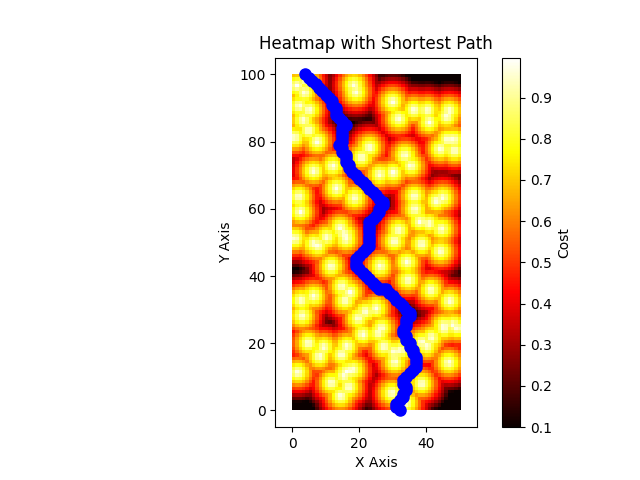
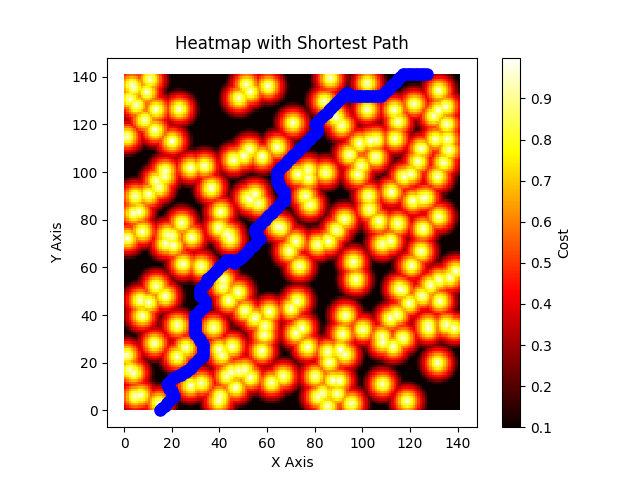
benchmarking method added :)

diff --git a/discrete/main.py b/discrete/main.py
@@ -170,11 +170,19 @@ def main():
     time_start = time.time()
     
     ##### Step 1: Let's build the problem field
-    x_length = 50        # x coordinate of the cows field [m]
-    y_length = 100        # y coordinate of the cows field [m]
-    n_obst = 100          # number of obsticles (cows)
-    
-    np.random.seed(42)   # seed for the random number generator
+    if len(sys.argv) > 1:
+        n_obst = int(sys.argv[1])
+        seed = int(sys.argv[2])
+        x_length = int((n_obst*100)**0.5)
+        y_length = x_length
+         
+        np.random.seed(seed)
+    else:
+        x_length = 50        # x coordinate of the cows field [m]
+        y_length = 100        # y coordinate of the cows field [m]
+        n_obst = 100          # number of obsticles (cows)
+        
+        np.random.seed(43)   # seed for the random number generator
         
     grid_spacing = 1        # spacing of the grid points [m]
     
@@ -185,6 +193,10 @@ def main():
 
     ##### Step 2: Computing the 2d heatmap of the cows in the field
     grid_points, n_total_points, n_grid_points_x = compute_heatmap(obst_coord, x_length, y_length, grid_spacing)
+    
+    density = n_obst/(grid_points.shape[0]*grid_points.shape[1])
+    # print("n_obst, seed, x_length, y_length, n_grid_points, density")
+    # print(n_obst, seed, x_length, y_length, grid_points.shape, density)
     
     ##### Step 3: Converting the heatmap into a weighted graph
     graph = compute_graph(grid_points, n_total_points, n_grid_points_x)
@@ -209,33 +221,36 @@ def main():
     path.append(start_coord)
     path = path[::-1]  # Reverse the path to get it from source to destination
     
-    print("total runtime: ", time.time() - time_start, "[s]")
+    print(time.time() - time_start)
+    # print("total runtime: ", time.time() - time_start, "[s]")
     
     ##### Step 5: Plot
     
-    # Plot the shortest path
-    x_coords = grid_points[path, 0]
-    y_coords = grid_points[path, 1]
-    plt.plot(x_coords, y_coords, marker='o', linestyle='-', color='blue', markersize=8)
-    
-    # Plot the start and end points
-    #plt.plot(grid_points[start_coord, 0], grid_points[start_coord, 1], marker='x', linestyle='-', color='green', markersize=8)
-    #plt.plot(grid_points[end_coord, 0], grid_points[end_coord, 1], marker='x', linestyle='-', color='red', markersize=8)
+    plot = False
+    if plot:
+        # Plot the shortest path
+        x_coords = grid_points[path, 0]
+        y_coords = grid_points[path, 1]
+        plt.plot(x_coords, y_coords, marker='o', linestyle='-', color='blue', markersize=8)
+        
+        # Plot the start and end points
+        #plt.plot(grid_points[start_coord, 0], grid_points[start_coord, 1], marker='x', linestyle='-', color='green', markersize=8)
+        #plt.plot(grid_points[end_coord, 0], grid_points[end_coord, 1], marker='x', linestyle='-', color='red', markersize=8)
 
-    # Plot the heatmap
-    weights = grid_points[:, 2].reshape((y_length+1, x_length+1))
-    plt.imshow(weights, origin='lower', extent=(0, x_length, 0, y_length), cmap='hot', interpolation='nearest')
-    plt.colorbar(label='Cost')
-    
-    margin = max(x_length, y_length)/20.0
-    plt.xlim(-margin, x_length + margin)
-    plt.ylim(-margin, y_length + margin)
-    
-    plt.title('Heatmap with Shortest Path')
-    plt.xlabel('X Axis')
-    plt.ylabel('Y Axis')
-    plt.savefig('heatmap.png')
-    plt.show()
+        # Plot the heatmap
+        weights = grid_points[:, 2].reshape((y_length+1, x_length+1))
+        plt.imshow(weights, origin='lower', extent=(0, x_length, 0, y_length), cmap='hot', interpolation='nearest')
+        plt.colorbar(label='Cost')
+        
+        margin = max(x_length, y_length)/20.0
+        plt.xlim(-margin, x_length + margin)
+        plt.ylim(-margin, y_length + margin)
+        
+        plt.title('Heatmap with Shortest Path')
+        plt.xlabel('X Axis')
+        plt.ylabel('Y Axis')
+        plt.savefig('heatmap.png')
+        plt.show()
     
     
      

diff --git a/voronoi/main.py b/voronoi/main.py
@@ -1,3 +1,4 @@
+import sys
 import time
 import numpy as np
 import matplotlib.pyplot as plt
@@ -11,8 +12,6 @@ This code computes the problem of Rumo having to pass a field with n cows.
 We have to get from point A to point B with having as little contact to the cows as he start barking otherwise.
 I.e. we are searching for the path of least resistance.
 """
-
-np.random.seed(42)
 
 
 def cost_function(a: np.array, b: np.array, c1: np.array, c2: np.array):
@@ -143,10 +142,19 @@ def main():
     time_start = time.time()
     
     ##### Step 1: Defining the problem field
-    
-    x_length = 50        # x coordinate of the cows field [m]
-    y_length = 100        # y coordinate of the cows field [m]
-    n_obst = 3000          # number of obsticles (cows)
+    if len(sys.argv) > 1:
+        n_obst = int(sys.argv[1])
+        seed = int(sys.argv[2])
+        x_length = int((n_obst*100)**0.5)
+        y_length = x_length
+         
+        np.random.seed(seed)
+    else:
+        x_length = 50        # x coordinate of the cows field [m]
+        y_length = 100        # y coordinate of the cows field [m]
+        n_obst = 100          # number of obsticles (cows)
+        
+        np.random.seed(43)   # seed for the random number generator
     
     obst_coord = np.random.rand(n_obst, 2) # 2d coordinates of the cows
     obst_coord[:,0] *= x_length
@@ -210,37 +218,40 @@ def main():
     
     # total runtime complexity
     # O[n*log(n) + n + n*k + n*log(n)]
-    print("total runtime: ", time.time() - time_start, "[s]")
+    print(time.time() - time_start)
+    # print("total runtime: ", time.time() - time_start, "[s]")
     
     ##### Step 5: Plot
     
-    # plot voronoi
-    #fig = voronoi_plot_2d(vor)
-    
-    # Plot the shortest path    
-    x_coords = vor.vertices[all_idx[path], 0]
-    y_coords = vor.vertices[all_idx[path], 1]
-    plt.plot(x_coords, y_coords, marker='o', linestyle='-', color='blue', markersize=8)
-    
-    #colors = ['green' if (0.0 < t < 1.0) else 'red' for t in edges_w_weights[:,3]]
-    #plt.scatter(edges_w_weights[:,4], edges_w_weights[:,5], c=colors, s=50, edgecolors='black')
-    
-    plt.scatter(og_obst_coord[:,0], og_obst_coord[:,1], c='pink', s=50)
+    plot = False
+    if plot:
+        # plot voronoi
+        #fig = voronoi_plot_2d(vor)
+        
+        # Plot the shortest path    
+        x_coords = vor.vertices[all_idx[path], 0]
+        y_coords = vor.vertices[all_idx[path], 1]
+        plt.plot(x_coords, y_coords, marker='o', linestyle='-', color='blue', markersize=8)
+        
+        #colors = ['green' if (0.0 < t < 1.0) else 'red' for t in edges_w_weights[:,3]]
+        #plt.scatter(edges_w_weights[:,4], edges_w_weights[:,5], c=colors, s=50, edgecolors='black')
+        
+        plt.scatter(og_obst_coord[:,0], og_obst_coord[:,1], c='pink', s=50)
 
-    # Draw the square bounding box
-    plt.plot([0, x_length, x_length, 0, 0],
-            [0, 0, y_length, y_length, 0],
-            'k--', lw=2)
-    
-    margin = max(x_length, y_length)/20.0
-    plt.xlim(-margin, x_length + margin)
-    plt.ylim(-margin, y_length + margin)
+        # Draw the square bounding box
+        plt.plot([0, x_length, x_length, 0, 0],
+                [0, 0, y_length, y_length, 0],
+                'k--', lw=2)
+        
+        margin = max(x_length, y_length)/20.0
+        plt.xlim(-margin, x_length + margin)
+        plt.ylim(-margin, y_length + margin)
 
-    plt.title('Shortest Path in a Voronoi Diagram of Cows')
-    plt.xlabel('X Axis')
-    plt.ylabel('Y Axis')
-    plt.savefig('heatmap2.png')
-    plt.show()
+        plt.title('Shortest Path in a Voronoi Diagram of Cows')
+        plt.xlabel('X Axis')
+        plt.ylabel('Y Axis')
+        plt.savefig('heatmap2.png')
+        plt.show()
     
 
 if __name__ == "__main__":

diff --git a/voronoi_union/main.py b/voronoi_union/main.py
@@ -1,3 +1,4 @@
+import sys
 import time
 import numpy as np
 from collections import defaultdict, deque
@@ -11,8 +12,6 @@ This code computes the problem of Rumo having to pass a field with n cows.
 We have to get from point A to point B with having as little contact to the cows as he start barking otherwise.
 I.e. we are searching for the path of least resistance.
 """
-
-np.random.seed(42)
 
 # Turn on interactive mode
 # plt.ion()
@@ -222,7 +221,6 @@ def find_path(graph: defaultdict, n_nodes: int, least_visited: bool = False):
         graph (defaultdict): [description]
         n_nodes (int): [description]
     """
-    print(n_nodes)
     if n_nodes > 6000:
         # Non-recursive DFS from ChatGPT
         visited = set()
@@ -268,10 +266,19 @@ def main():
     time_start = time.time()
     
     ##### Step 1: Defining the problem field
-    
-    x_length = 50        # x coordinate of the cows field [m]
-    y_length = 100        # y coordinate of the cows field [m]
-    n_obst = 3000          # number of obsticles (cows)
+    if len(sys.argv) > 1:
+        n_obst = int(sys.argv[1])
+        seed = int(sys.argv[2])
+        x_length = int((n_obst*100)**0.5)
+        y_length = x_length
+         
+        np.random.seed(seed)
+    else:
+        x_length = 50        # x coordinate of the cows field [m]
+        y_length = 100        # y coordinate of the cows field [m]
+        n_obst = 100          # number of obsticles (cows)
+        
+        np.random.seed(43)   # seed for the random number generator
     
     obst_coord = np.random.rand(n_obst, 2) # 2d coordinates of the cows
     obst_coord[:,0] *= x_length
@@ -341,24 +348,27 @@ def main():
     # total runtime complexity
     # 
     
-    print("total runtime: ", time.time() - time_start, "[s]")
+    print(time.time() - time_start)
+    # print("total runtime: ", time.time() - time_start, "[s]")
     
     ##### Step 6: Plot
     
-    # plot voronoi
-    #fig = voronoi_plot_2d(vor)
-    
-    # Plot the shortest path    
-    x_coords = vor.vertices[all_idx[path], 0]
-    y_coords = vor.vertices[all_idx[path], 1]
-    plt.plot(x_coords, y_coords, marker='o', linestyle='-', color='blue', markersize=8)
-    
-    #plt.scatter(edges_w_weights[:,3], edges_w_weights[:,4], s=50, edgecolors='black')
+    plot = False
+    if plot:
+        # plot voronoi
+        #fig = voronoi_plot_2d(vor)
+        
+        # Plot the shortest path    
+        x_coords = vor.vertices[all_idx[path], 0]
+        y_coords = vor.vertices[all_idx[path], 1]
+        plt.plot(x_coords, y_coords, marker='o', linestyle='-', color='blue', markersize=8)
+        
+        #plt.scatter(edges_w_weights[:,3], edges_w_weights[:,4], s=50, edgecolors='black')
 
-    plt.xlabel('X Axis')
-    plt.ylabel('Y Axis')
-    plt.savefig('heatmap2.png')
-    plt.show()
+        plt.xlabel('X Axis')
+        plt.ylabel('Y Axis')
+        plt.savefig('heatmap2.png')
+        plt.show()
     
 
 if __name__ == "__main__":

diff --git a/voronoi_union/anim_2dfield_big.py b/voronoi_union/anim_2dfield_big.py
@@ -167,7 +167,7 @@ class TwoDField_Vor_UF_Big(MovingCameraScene):
                 line = Line(
                     [a[0], a[1], 0],
                     [b[0], b[1], 0],
-                    stroke_width=4,
+                    stroke_width=8,
                     color=BLUE # interpolate_color(BLUE, RED, weight)
                 )
                 lines.add(line)
@@ -183,8 +183,8 @@ class TwoDField_Vor_UF_Big(MovingCameraScene):
             line = Line(
                 [a[0], a[1], 0],
                 [b[0], b[1], 0],
-                stroke_width=4,
-                color=BLUE # interpolate_color(BLUE, RED, weight)
+                stroke_width=8,
+                color=BLUE
             )
             lines_all.add(line)
 
@@ -206,8 +206,8 @@ class TwoDField_Vor_UF_Big(MovingCameraScene):
             line = Line(
                 p1,
                 p2,
-                stroke_width=4,
-                color=ORANGE # interpolate_color(BLUE, RED, weight)
+                stroke_width=12,
+                color=ORANGE
             )
             
             uf_lines.add(line)
@@ -234,7 +234,7 @@ class TwoDField_Vor_UF_Big(MovingCameraScene):
         for i, j in zip(path[:-1], path[1:]):
             p1 = [vor.vertices[all_idx[i], 0], vor.vertices[all_idx[i], 1], 0]
             p2 = [vor.vertices[all_idx[j], 0], vor.vertices[all_idx[j], 1], 0]
-            line = Line(p1, p2, color=PURE_GREEN, stroke_width=11)
+            line = Line(p1, p2, color=PURE_GREEN, stroke_width=15)
             path_lines.add(line)
         
         path_lines.set_z_index(2)

diff --git a/anim_benchmark_plot.py b/anim_benchmark_plot.py
@@ -1,0 +1,35 @@
+from manim import *
+import pandas as pd
+import matplotlib.pyplot as plt
+
+class Benchmark_Plot(MovingCameraScene):        
+    def construct(self):
+        # Load data
+        df = pd.read_csv("benchmark_results.txt", delim_whitespace=True)
+
+        # Unique scripts and sorted Ns
+        scripts = sorted(df['script'].unique())
+        Ns = sorted(df['N'].unique())
+
+        # Create matplotlib plot
+        plt.figure(figsize=(6, 4))
+        for script in scripts:
+            sub_df = df[df['script'] == script]
+            plt.plot(sub_df['N'], sub_df['avg_runtime'], marker='o', label=script)
+
+        plt.xlabel("Number of Nodes (N)")
+        plt.ylabel("Average Runtime (s)")
+        plt.title("Benchmark Performance Comparison")
+        plt.legend()
+        plt.yscale('log')
+        plt.grid(True)
+
+        # Save the plot as an image
+        plt.tight_layout()
+        plt.savefig("benchmark_plot.png")
+        plt.close()
+
+        # Show it in Manim
+        plot_image = ImageMobject("benchmark_plot.png").scale(1.2)
+        self.play(FadeIn(plot_image))
+        self.wait(3)
